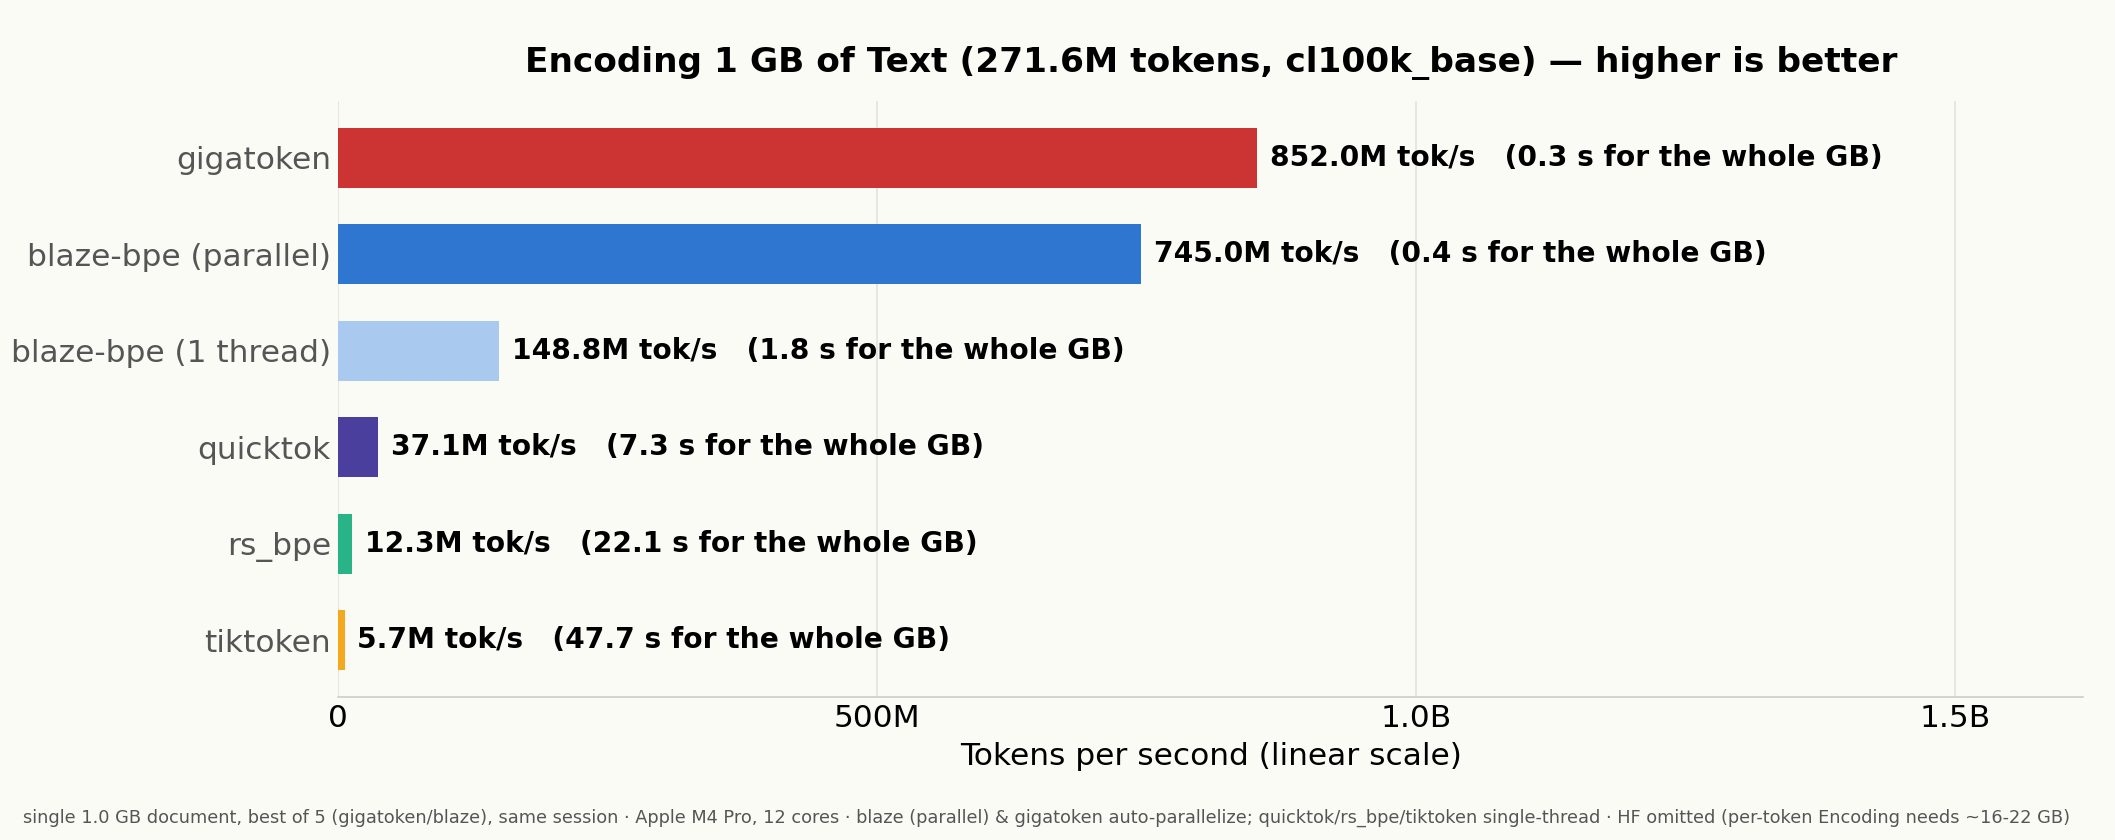
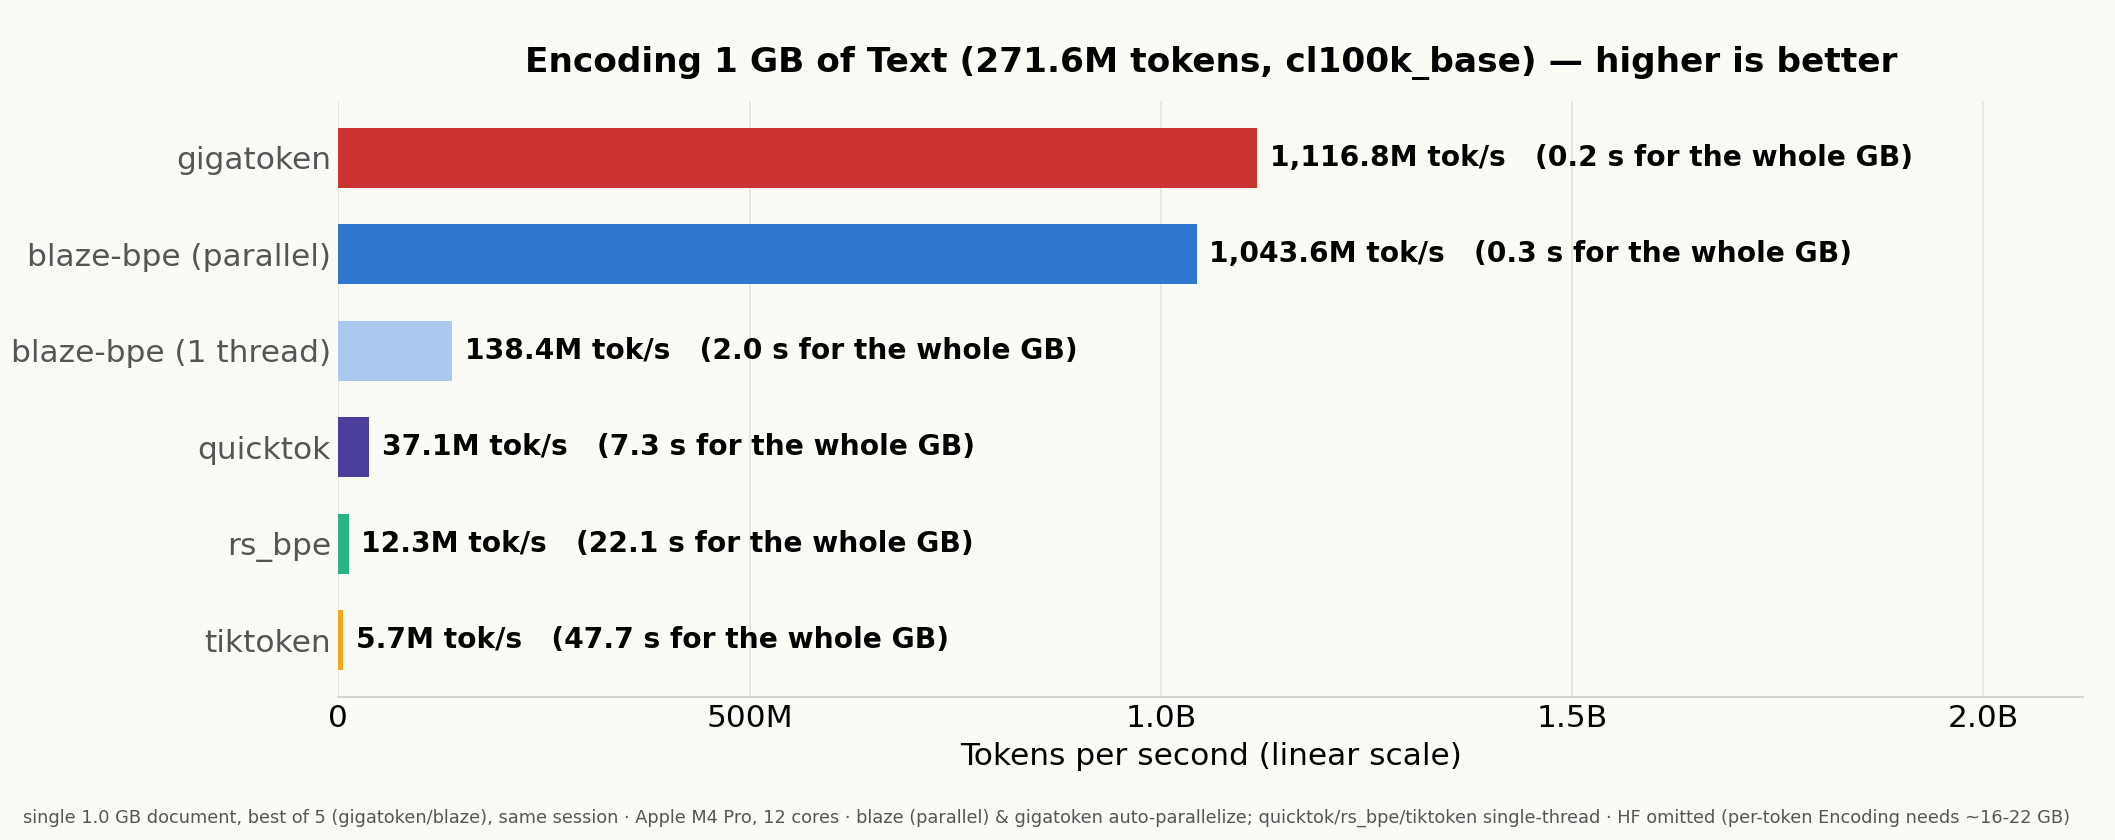
charts: fresh same-session gigatoken vs blaze at 1 GB; drop sub-1 GB charts
Re-measured gigatoken (best-of-5) and blaze back-to-back on this machine at 1 GB:
- cl100k: gigatoken 1117M tok/s, blaze parallel 1044M (neck-and-neck)
- o200k:  gigatoken 1001M tok/s, blaze parallel 634M

Per request, restrict the charts to the 1 GB regime — the representative bulk
comparison — and remove the large-document and small-input line charts (dominated
by fixed/per-call overheads). Updates the 1 GB bar charts and cl100k/o200k
tables to the fresh numbers, deletes the two orphaned PNGs, and fixes the
dangling size-sweep cross-references.

diff --git a/scripts/make_charts.py b/scripts/make_charts.py
@@ -35,11 +35,10 @@ plt.rcParams.update({
 # gigatoken (best-of-5) and blaze measured in one thermal state, so the two
 # parallel series are directly comparable. Single-thread rivals kept at their
 # documented values (single-thread is reproducible; blaze 1-thread matches).
-GT_1GB_CL = 852.0e6   # 1 GB shakespeare x900, cl100k
-GT_1GB_O2 = 870.3e6   # 1 GB shakespeare x900, o200k
-GT_LARGE  = [12.1e6, 84.9e6, 196.1e6]   # [1.1 MB, 8.9 MB, 32.3 MB], cl100k
-GT_SMALL  = None      # omitted: gigatoken's per-call overhead makes 45 B-44 KB
-                      # single calls 100-1000x slower (a bulk tool, wrong regime)
+# Only the 1 GB regime is charted; sub-1 GB sizes are omitted (per-call and
+# fixed-overhead effects make them a different, less representative regime).
+GT_1GB_CL = 1116.8e6  # 1 GB shakespeare x900, cl100k, best-of-5
+GT_1GB_O2 = 1000.5e6  # 1 GB shakespeare x900, o200k, best-of-5
 # ---------------------------------------------------------------------------
 
 TOK_CL = 271_646_100
@@ -133,8 +132,8 @@ def line_chart(path, title, footer, xticklabels, xlabel, series, ymin, ymax):
 def main():
     # ---- Chart 1: 1 GB cl100k bar ----
     rows = [
-        ("blaze-bpe (parallel)", 745.0e6, C["blaze_par"]),
-        ("blaze-bpe (1 thread)", 148.8e6, C["blaze_1t"]),
+        ("blaze-bpe (parallel)", 1043.6e6, C["blaze_par"]),
+        ("blaze-bpe (1 thread)", 138.4e6, C["blaze_1t"]),
         ("quicktok", 37.1e6, C["quicktok"]),
         ("rs_bpe", 12.3e6, C["rs_bpe"]),
         ("tiktoken", 5.7e6, C["tiktoken"]),
@@ -150,8 +149,8 @@ def main():
 
     # ---- Chart 2: 1 GB o200k bar ----
     rows = [
-        ("blaze-bpe (parallel)", 506.1e6, C["blaze_par"]),
-        ("blaze-bpe (1 thread)", 84.8e6, C["blaze_1t"]),
+        ("blaze-bpe (parallel)", 634.1e6, C["blaze_par"]),
+        ("blaze-bpe (1 thread)", 84.4e6, C["blaze_1t"]),
         ("quicktok", 31.4e6, C["quicktok"]),
         ("rs_bpe", 10.5e6, C["rs_bpe"]),
         ("tiktoken", 7.8e6, C["tiktoken"]),
@@ -165,43 +164,9 @@ def main():
               "HF omitted (per-token Encoding needs ~16-22 GB)",
               TOK_O2, rows)
 
-    # ---- Chart 3: large documents line ----
-    series = [
-        ("blaze-bpe (parallel)", [191e6, 653e6, 811e6], C["blaze_par"], "o", False, "fill"),
-        ("blaze-bpe (1 thread)", [148e6, 150e6, 151e6], C["blaze_par"], "o", True, "open"),
-    ]
-    if GT_LARGE:
-        series.append(("gigatoken", GT_LARGE, C["gigatoken"], "P", False, "fill"))
-    series += [
-        ("quicktok", [34e6, 30e6, 30e6], C["quicktok"], "v", False, "fill"),
-        ("rs_bpe", [12e6, 11e6, 11e6], C["rs_bpe"], "^", False, "fill"),
-        ("tiktoken", [6.1e6, 6.0e6, 5.9e6], C["tiktoken"], "s", False, "fill"),
-        ("tokenizers", [1.3e6, 1.1e6, 1.0e6], C["tokenizers"], "D", False, "fill"),
-    ]
-    line_chart("assets/blaze_large_graph.png",
-               "Encoding Speed on Large Documents — tokens/second (higher is better, log scale)",
-               "cl100k_base, identical output, best of 5, same session · Apple M4 Pro · single-thread except blaze "
-               "(parallel) & gigatoken (auto-parallel) · tiktoken 0.12 / tokenizers 0.22 / rs-bpe 0.1 / quicktok 0.4 "
-               "via Python; blaze & gigatoken native",
-               ["1.1 MB\n(302K tokens)", "8.9 MB\n(2.4M tokens)", "32.3 MB\n(8.8M tokens)"],
-               "Single-document input size", series, 7e5, 2.2e9)
-
-    # ---- Chart 4: small inputs line (single-thread warm) ----
-    series = [
-        ("blaze-bpe", [145.8e6, 285.9e6, 258.3e6], C["blaze_par"], "o", False, "fill"),
-        ("rs_bpe", [15.5e6, 16.2e6, 13.6e6], C["rs_bpe"], "^", False, "fill"),
-        ("tiktoken", [5.8e6, 6.6e6, 6.5e6], C["tiktoken"], "s", False, "fill"),
-        ("tokenizers", [1.4e6, 2.0e6, 1.9e6], C["tokenizers"], "D", False, "fill"),
-    ]
-    if GT_SMALL:
-        series.insert(1, ("gigatoken", GT_SMALL, C["gigatoken"], "P", False, "fill"))
-    line_chart("assets/blaze_speed_graph.png",
-               "Encoding Speed on Small Inputs — tokens/second (higher is better, log scale)",
-               "cl100k_base, single thread, warm cache, best of 30 · Apple M4 Pro · tiktoken 0.12 / tokenizers 0.22 / "
-               "rs-bpe 0.1 (Python bindings) / blaze-bpe (native Rust) · gigatoken omitted: per-call overhead makes "
-               "single 45 B-44 KB calls 100-1000x slower (a bulk whole-file tool)",
-               ["small\n(45 bytes)", "medium\n(900 bytes)", "large\n(43.9 KB)"],
-               "Input size", series, 8e5, 1e9)
+    # Sub-1 GB charts (large-documents and small-inputs lines) intentionally
+    # dropped: the 1 GB regime is the representative bulk-throughput comparison,
+    # and smaller sizes are dominated by fixed/per-call overheads.
 
 
 if __name__ == "__main__":

diff --git a/README.md b/README.md
@@ -53,8 +53,8 @@ chunked-parallel): 1230 MB/s.
 gigatoken's 44.6 MB/s here is not a single-thread number — it's its whole-file
 `bench` on this 1.1 MB doc, where its fixed per-call setup (~20 ms) dominates and
 its parallelism has nothing to bite on. That overhead only amortizes on
-gigabyte-scale input; the [size sweep](#throughput-across-document-sizes) shows
-it climbing from last place at 1 MB to first at 1 GB.
+gigabyte-scale input; the [1 GB benchmark](#encoding-1-gb-of-text-cl100k_base)
+shows it climbing from last place at 1 MB to first at 1 GB.
 
 Decode (ids -> text, same corpus): omnitoken 545 MB/s, blaze 480 MB/s,
 rs-bpe 306 MB/s, tiktoken-go 194 MB/s, tiktoken (Python) 188 MB/s.
@@ -121,18 +121,18 @@ output across all implementations, best of 5, one thermal session, M4 Pro.
 [gigatoken](https://github.com/marcelroed/gigatoken) and blaze (parallel) both
 auto-parallelize across all 12 cores; quicktok/rs-bpe/tiktoken are single-thread
 (Python bindings, FFI fully amortized at this size). At 1 GB gigatoken's
-whole-file design edges past blaze's chunked-parallel encode — the crossover the
-[size sweep](#throughput-across-document-sizes) and
-[OpenWebText](#vs-gigatoken-on-real-world-text-openwebtext) sections trace:
+whole-file design edges past blaze's chunked-parallel encode — the same crossover
+the [OpenWebText](#vs-gigatoken-on-real-world-text-openwebtext) section traces on
+real web text:
 
 | implementation           | tokens/s   | wall time for 1 GB | vs tiktoken |
 |--------------------------|-----------:|-------------------:|------------:|
-| **gigatoken**            |   **852M** |         **0.32 s** |    **149x** |
-| **blaze-bpe (parallel)** |   **745M** |         **0.36 s** |    **131x** |
-| blaze-bpe (1 thread)     |       149M |              1.8 s |         26x |
+| **gigatoken**            |  **1117M** |         **0.24 s** |    **196x** |
+| **blaze-bpe (parallel)** |  **1044M** |         **0.26 s** |    **183x** |
+| blaze-bpe (1 thread)     |       138M |              2.0 s |         24x |
 | quicktok 0.4 (C++)       |      37.1M |              7.3 s |        6.5x |
-| rs-bpe 0.1               |      12.3M |             22.1 s |        2.1x |
-| tiktoken 0.12            |       5.7M |             47.4 s |          1x |
+| rs-bpe 0.1               |      12.3M |             22.1 s |        2.2x |
+| tiktoken 0.12            |       5.7M |             47.7 s |          1x |
 
 ![Encoding 1 GB of text, cl100k_base](assets/blaze_1gb_graph.png)
 
@@ -143,32 +143,13 @@ higher — see the [32 MB interleaved measurement](#vs-python-tiktoken-on-one-lo
 
 Same 1 GB document with **o200k_base** (the encoding used by GPT-4o/4.1/5,
 o1, o3 and o4-mini; 267,845,400 tokens, again byte-identical everywhere):
-gigatoken 870M tokens/s (0.31 s, **112x tiktoken**), blaze parallel 506M
-(0.53 s, 65x), blaze single-thread 85M (11x), quicktok 31.4M (4.0x), rs-bpe
+gigatoken 1001M tokens/s (0.27 s, **128x tiktoken**), blaze parallel 634M
+(0.42 s, 81x), blaze single-thread 84M (11x), quicktok 31.4M (4.0x), rs-bpe
 10.5M (1.3x), tiktoken 7.8M (34.3 s). gigatoken's throughput is vocab-agnostic,
 so on the bigger o200k vocab — which costs blaze and the others MB/s — its lead
-over blaze widens to 1.7x.
+over blaze widens to 1.6x.
 
 ![Encoding 1 GB of text, o200k_base](assets/blaze_1gb_o200k_graph.png)
-
-### Throughput across document sizes
-
-Single-document tokens/s at 1.1 MB / 8.9 MB / 32.3 MB (cl100k_base, log
-scale; the single-thread rivals are flat across sizes, i.e. steady-state, while
-blaze's chunked-parallel line pulls ahead as the document grows). gigatoken (the
-red line) is the mirror image: its per-call overhead sinks it to the bottom at
-1.1 MB (12M tok/s, below rs-bpe), but it climbs steeply and crosses above blaze's
-single-thread line by 32 MB — then overtakes blaze's *parallel* line at 1 GB (the
-[bar chart above](#encoding-1-gb-of-text-cl100k_base)). blaze owns everything up
-to ~32 MB; gigatoken owns the gigabyte:
-
-![Encoding speed on large documents](assets/blaze_large_graph.png)
-
-At small inputs (45 B / 900 B / 43.9 KB — the sizes rs-bpe's marketing graph
-uses) the same ranking holds, but the rivals' numbers are dominated by
-Python call overhead, which is why small-text benchmarks flatter no one:
-
-![Encoding speed on small inputs](assets/blaze_speed_graph.png)
 
 ### vs Python tiktoken on one long document (32 MB, cl100k)
 
